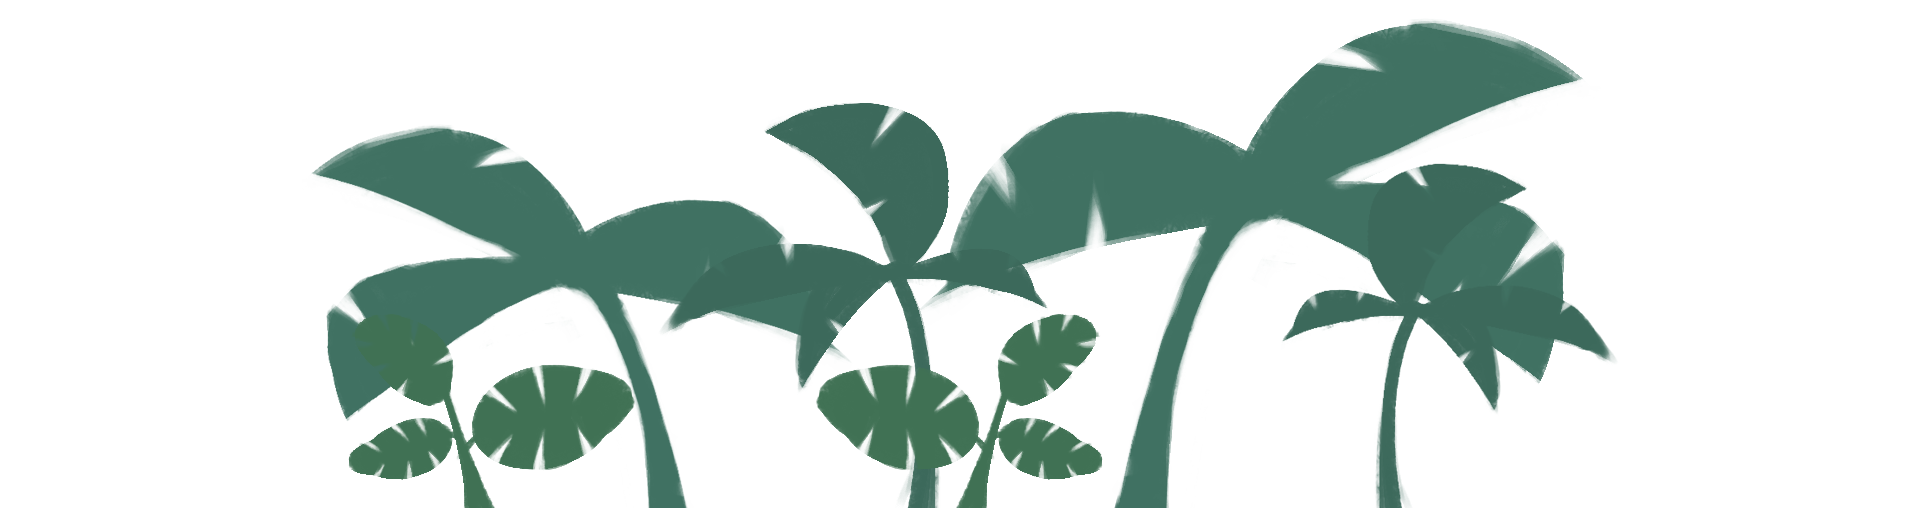
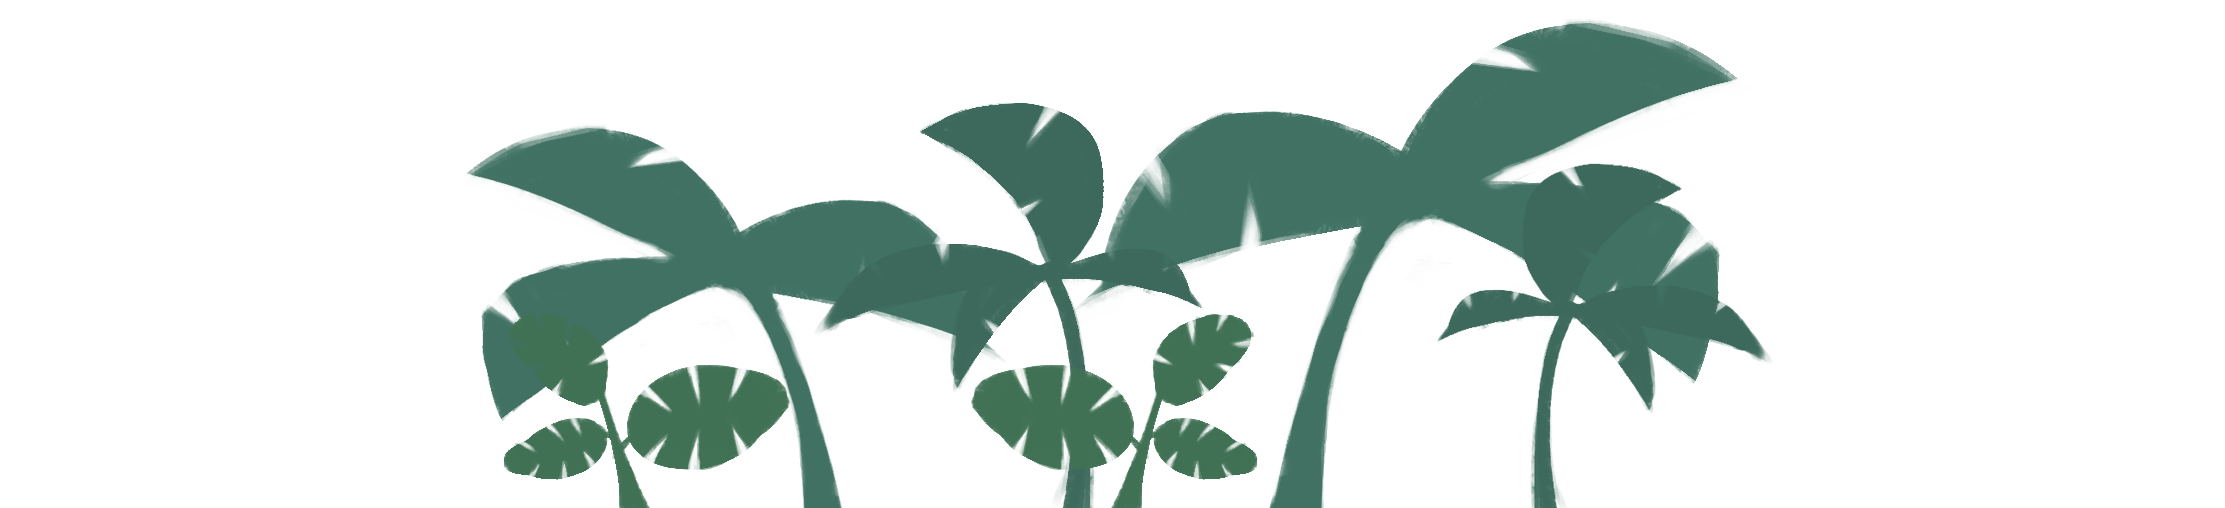
Updates

Changed region(s): [[0.1554, 0.0295, 0.8394, 1.0]]

diff --git a/dist/bundle.js b/dist/bundle.js
@@ -1,4 +1,4 @@
-!function(t){var e={};function i(n){if(e[n])return e[n].exports;var s=e[n]={i:n,l:!1,exports:{}};return t[n].call(s.exports,s,s.exports,i),s.l=!0,s.exports}i.m=t,i.c=e,i.d=function(t,e,n){i.o(t,e)||Object.defineProperty(t,e,{enumerable:!0,get:n})},i.r=function(t){"undefined"!=typeof Symbol&&Symbol.toStringTag&&Object.defineProperty(t,Symbol.toStringTag,{value:"Module"}),Object.defineProperty(t,"__esModule",{value:!0})},i.t=function(t,e){if(1&e&&(t=i(t)),8&e)return t;if(4&e&&"object"==typeof t&&t&&t.__esModule)return t;var n=Object.create(null);if(i.r(n),Object.defineProperty(n,"default",{enumerable:!0,value:t}),2&e&&"string"!=typeof t)for(var s in t)i.d(n,s,function(e){return t[e]}.bind(null,s));return n},i.n=function(t){var e=t&&t.__esModule?function(){return t.default}:function(){return t};return i.d(e,"a",e),e},i.o=function(t,e){return Object.prototype.hasOwnProperty.call(t,e)},i.p="",i(i.s=0)}([function(t,e,i){"use strict";Object.defineProperty(e,"__esModule",{value:!0}),i(1);const n=i(4),s={type:Phaser.CANVAS,scene:n.MainScene,width:window.innerWidth,height:window.innerHeight,physics:{default:"arcade",arcade:{gravity:{y:200}}}};class r extends Phaser.Game{constructor(t){super(t)}}e.Game=r,window.addEventListener("load",()=>{new r(s)})},function(t,e,i){(function(e){t.exports=e.Phaser=i(3)}).call(this,i(2))},function(t,e){var i;i=function(){return this}();try{i=i||new Function("return this")()}catch(t){"object"==typeof window&&(i=window)}t.exports=i},function(module,exports,__webpack_require__){var factory;window,factory=function(){return function(t){var e={};function i(n){if(e[n])return e[n].exports;var s=e[n]={i:n,l:!1,exports:{}};return t[n].call(s.exports,s,s.exports,i),s.l=!0,s.exports}return i.m=t,i.c=e,i.d=function(t,e,n){i.o(t,e)||Object.defineProperty(t,e,{enumerable:!0,get:n})},i.r=function(t){"undefined"!=typeof Symbol&&Symbol.toStringTag&&Object.defineProperty(t,Symbol.toStringTag,{value:"Module"}),Object.defineProperty(t,"__esModule",{value:!0})},i.t=function(t,e){if(1&e&&(t=i(t)),8&e)return t;if(4&e&&"object"==typeof t&&t&&t.__esModule)return t;var n=Object.create(null);if(i.r(n),Object.defineProperty(n,"default",{enumerable:!0,value:t}),2&e&&"string"!=typeof t)for(var s in t)i.d(n,s,function(e){return t[e]}.bind(null,s));return n},i.n=function(t){var e=t&&t.__esModule?function(){return t.default}:function(){return t};return i.d(e,"a",e),e},i.o=function(t,e){return Object.prototype.hasOwnProperty.call(t,e)},i.p="",i(i.s=1363)}([function(t,e){function i(t,e,i){var n=i?t[e]:Object.getOwnPropertyDescriptor(t,e);return!i&&n.value&&"object"==typeof n.value&&(n=n.value),!(!n||!
+!function(t){var e={};function i(n){if(e[n])return e[n].exports;var s=e[n]={i:n,l:!1,exports:{}};return t[n].call(s.exports,s,s.exports,i),s.l=!0,s.exports}i.m=t,i.c=e,i.d=function(t,e,n){i.o(t,e)||Object.defineProperty(t,e,{enumerable:!0,get:n})},i.r=function(t){"undefined"!=typeof Symbol&&Symbol.toStringTag&&Object.defineProperty(t,Symbol.toStringTag,{value:"Module"}),Object.defineProperty(t,"__esModule",{value:!0})},i.t=function(t,e){if(1&e&&(t=i(t)),8&e)return t;if(4&e&&"object"==typeof t&&t&&t.__esModule)return t;var n=Object.create(null);if(i.r(n),Object.defineProperty(n,"default",{enumerable:!0,value:t}),2&e&&"string"!=typeof t)for(var s in t)i.d(n,s,function(e){return t[e]}.bind(null,s));return n},i.n=function(t){var e=t&&t.__esModule?function(){return t.default}:function(){return t};return i.d(e,"a",e),e},i.o=function(t,e){return Object.prototype.hasOwnProperty.call(t,e)},i.p="",i(i.s=0)}([function(t,e,i){"use strict";Object.defineProperty(e,"__esModule",{value:!0}),i(1);const n=i(4),s={type:Phaser.CANVAS,scene:n.MainScene,width:"100%",height:"100%",physics:{default:"arcade",arcade:{gravity:{y:200}}}};class r extends Phaser.Game{constructor(t){super(t)}}e.Game=r,window.addEventListener("load",()=>{new r(s)})},function(t,e,i){(function(e){t.exports=e.Phaser=i(3)}).call(this,i(2))},function(t,e){var i;i=function(){return this}();try{i=i||new Function("return this")()}catch(t){"object"==typeof window&&(i=window)}t.exports=i},function(module,exports,__webpack_require__){var factory;window,factory=function(){return function(t){var e={};function i(n){if(e[n])return e[n].exports;var s=e[n]={i:n,l:!1,exports:{}};return t[n].call(s.exports,s,s.exports,i),s.l=!0,s.exports}return i.m=t,i.c=e,i.d=function(t,e,n){i.o(t,e)||Object.defineProperty(t,e,{enumerable:!0,get:n})},i.r=function(t){"undefined"!=typeof Symbol&&Symbol.toStringTag&&Object.defineProperty(t,Symbol.toStringTag,{value:"Module"}),Object.defineProperty(t,"__esModule",{value:!0})},i.t=function(t,e){if(1&e&&(t=i(t)),8&e)return t;if(4&e&&"object"==typeof t&&t&&t.__esModule)return t;var n=Object.create(null);if(i.r(n),Object.defineProperty(n,"default",{enumerable:!0,value:t}),2&e&&"string"!=typeof t)for(var s in t)i.d(n,s,function(e){return t[e]}.bind(null,s));return n},i.n=function(t){var e=t&&t.__esModule?function(){return t.default}:function(){return t};return i.d(e,"a",e),e},i.o=function(t,e){return Object.prototype.hasOwnProperty.call(t,e)},i.p="",i(i.s=1363)}([function(t,e){function i(t,e,i){var n=i?t[e]:Object.getOwnPropertyDescriptor(t,e);return!i&&n.value&&"object"==typeof n.value&&(n=n.value),!(!n||!
 /**
  * @author       Richard Davey <rich@photonstorm.com>
  * @copyright    2019 Photon Storm Ltd.

diff --git a/src/game.ts b/src/game.ts
@@ -5,8 +5,8 @@ import { MainScene } from "./scenes/mainScene";
 const config: GameConfig = {
   type: Phaser.CANVAS,
   scene: MainScene,
-  width: window.innerWidth,
-  height: window.innerHeight,
+  width: "100%",
+  height: "100%",
   physics: {
     default: "arcade",
     arcade: {

diff --git a/webpack.config.js b/webpack.config.js
@@ -8,6 +8,9 @@ module.exports = {
     path: path.resolve(__dirname, "dist"),
     filename: "bundle.js"
   },
+  performance: {
+    hints: false
+  },
   module: {
     rules: [
       { test: /\.ts$/, loader: "ts-loader", exclude: "/node_modules/" },
